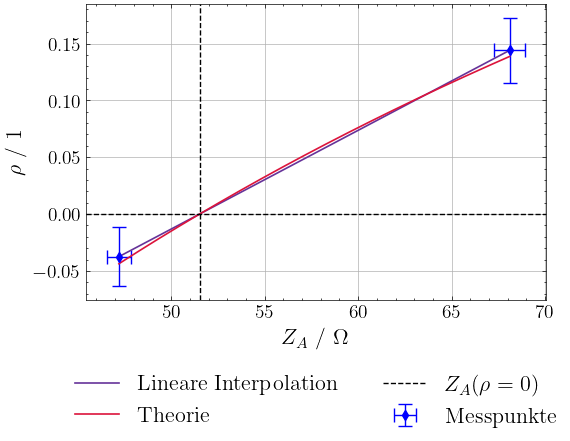
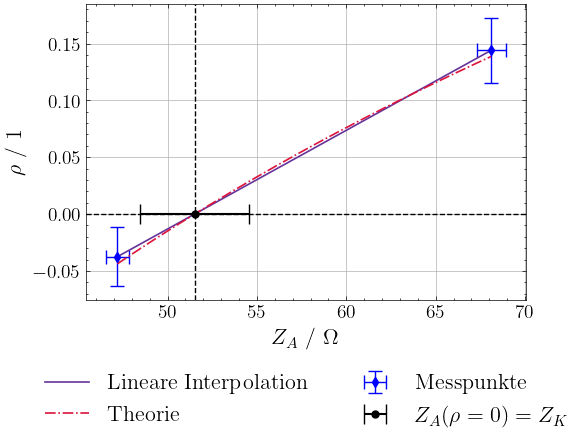
finish Auswertung Signalleitung

diff --git a/Promt.md b/Promt.md
@@ -76,110 +76,104 @@ Als nächstes analysiere den vorgegebenen code und die Inhaltlichen Anforderunge
 
 # Promt für LLM
 
-Rolle & Ziel: Du bist ein wissenschaftlicher Assistent, spezialisiert auf das Verfassen von Physik-Laborberichten auf Hochschulniveau. Deine Aufgabe ist es mir beim Schreiben meines aktuellen Laborberichts Interferometer zu helfen. Du sollst dazu das Kapitel Auswertung schreiben. Im diesem letzten Schritt soll die Auswertung für den vierten Versuch verfasst werden.
+Rolle & Ziel: Du bist ein wissenschaftlicher Assistent, spezialisiert auf das Verfassen von Physik-Laborberichten auf Hochschulniveau. Deine Aufgabe ist es mir beim Schreiben meines aktuellen Laborberichts Signalleitung zu helfen. Du sollst dazu das Kapitel Vesuchsdurchführung und Auswertung für den fünften Versuch "Einfluss verschiedener Signalformen" verfassen.
+
 Input: 
 1. Bestehender Laborbericht mit Bildern.
-2. Python code zur Auswertung der Aufgabe. 
+2. Python code zur Auswertung der Aufgabe:
+
+```python 
+files = [
+    "data50.csv",  # 1.0 MHz
+    "data55.csv",  # 2.0 MHz
+    "data56.csv",  # ~2.3 MHz (dip)
+    "data57.csv",  # 2.4 MHz
+    "data60.csv",  # 3.0 MHz
+    "data61.csv",  # 4.0 MHz
+]
+
+folder_path = "data/Signalleitung/V05_sine"
+
+fig, axes = plt.subplots(
+    2, 3,
+    figsize=(10, 6),
+    sharex=True,
+    sharey=True
+)
+
+legend_handles = None
+legend_labels = None
+axes = axes.flatten()
+
+for i,ax in enumerate(axes):
+    df = pd.read_csv(
+        os.path.join(folder_path, files[i]),
+        skiprows=3,
+        header=None
+    )
+
+    time = df.iloc[:, 0].to_numpy()
+    voltage1 = df.iloc[:, 1].to_numpy()
+    voltage2 = df.iloc[:, 2].to_numpy()
+
+    # ---- frequency determination via peaks ----
+    voltage2_ac = voltage2 - np.mean(voltage2)
+    peaks, _ = find_peaks(voltage2_ac, prominence=0.2*np.max(np.abs(voltage2_ac)))
+
+    T = np.mean(np.diff(time[peaks]))
+    frequency = 1 / T
+
+    l1, = ax.plot(time * 1e6, voltage1, color="blue", lw=1)
+    l2, = ax.plot(time * 1e6, voltage2, color="crimson", lw=1)
+
+    if legend_handles is None:
+        legend_handles = [l1, l2]
+        legend_labels = [r"Eingang $U_1$", r"Ausgang $U_2$"]
+
+    ax.set_title(fr"$f = {frequency/1e6:.2f}\,\mathrm{{MHz}}$", fontsize=16)
+    ax.grid(True)
+    ax.set_xlim(-1,1)
+    if i in [0,3]:
+        ax.set_ylabel(r"Voltage $U$ / V", fontsize=16)
+    if i in [3,4,5]:
+        ax.set_xlabel(r"Time $t$ / $\mu$s", fontsize=16)
+
+fig.legend(
+    legend_handles,
+    legend_labels,
+    loc='lower center',
+    ncol=len(legend_labels),
+    fontsize=16
+)
+
+plt.tight_layout(rect=[0, 0.08, 1, 1])
+plt.show()
+```
 
 Anforderungen an den Output:
-* Schreibe mir das vierte Kapitel für den aktuellen Bericht. Gib dem Kapitel eine passende Überschrift.
-* Analysiere den bestehenden Bericht und baue auf der bestehenden Analyse auf. Übernimm den Schreibstil, die Struktur, den Detaillierungsgrad und die Länge der analysierten Kapitel.
-* Verwende dieselbe wissenschaftliche Ausdrucksweise, denselben Aufbau (Absätze, Unterüberschriften, Formatierung) und ein ähnliches Sprachniveau. Achte darauf keine Wortwiederholungen zu verwenden und dass der Text zum rest des Berichtes passt.
+* Schreibe mir das fünfte Kapitel "Einfluss verschiedener Signalformen" für den aktuellen Bericht.
+* Analysiere den bestehenden Bericht und übernimm den Schreibstil, die Struktur, den Detaillierungsgrad und die Länge der analysierten Kapitel.
+* Wichtig! Verwende dieselbe wissenschaftliche Ausdrucksweise, denselben Aufbau (Absätze, Unterüberschriften, Formatierung) und ein ähnliches Sprachniveau. Achte weiters darauf keine Wortwiederholungen und koplexe Ausdrücke zu verwenden.
 * Die Formatierung der Tabellen und Bilder sind ebenfalls aus den Berichten zu entnehmen. Wichtig ist immer eine passende caption der Figuren und Tabellen zu verwenden. Subindizes sind als text zu formatieren $X_\text{y}$ und alle Messwerte sind mit einer Unsicherheit anzugeben.
 * Falls inhaltliche Unsicherheiten bestehen, formuliere plausible und physikalisch korrekte Annahmen.
-* Im bestehenden Bericht sind bereits alle bilder eingefügt. Die captions dieser Figuren sind mithilfe der inhaltlichen Angaben zu überarbeiten und auszubessern.
+* Im bestehenden Bericht sind bereits alle Bilder eingefügt. Die captions dieser Figuren sind mithilfe der inhaltlichen Angaben zu überarbeiten.
 
-Inhalt: Für den vierten Versuch soll die Größe der Lichtquelle bestimmt werden, bei der für einen bestimmten Abstand d vom Doppeltspalt das Licht noch räumlich kohärent ist. Dazu wird für die drei verfügbaren Spaltabstände des Doppelspalts jeweils das ertste Kontrastminimum durch verstelle nder Spaltbreite $w$ ermittelt. Die 3 zugehörigen Interferenzmuster sind in der ersten Abbildung angeführt. Der markierte Bereich dient hier nur zu visualisierungs Zwecken.
-Als nächstes werden die Messpunkte und der Theoretisch erwartete Verlauf in einem Diagramm w(d) dargestellt. Die Unsicherheit für w ergibt sich aus dem in Kapitel 1 angeführen Argumenten der Nullpunktverschiebung.
+Inhalt: 
+Durchführung: Für den fünften Versuchsteil soll der Einfluss verschiedener Signalformen auf das Verhalten in einem Koaxial Kabel untersucht werden. Dazu wird die Schaltung aus Versuch 1a aufgebaut und anstatt mit Rechteckpulsen einmal mit einer Dreieckspannung von 100kHz und mit Sinussignalen verschiedener Frequnzen betrieben.
+
+Auswertung: IN der ersten Abbildung ist der Verlauf der Dreieck Spannung am Eingang vom Kabel in gelb und am Ausgang in grün dargestellt. In der zweiten Abbildung jeweils U_1 und U_2 von 6 verschiedenen Sinus signalen mit den Frequnzen freq = [0.5, 1.0, 1.5, 2.0, 2.3, 2.4, 3.0, 4.0, 5.0] #MHz. Es ist jeweils der selbe ZEitabschnitt geplottet.
+
+Diskussion:
+BEi dem Dreiecksignal ist U_1 und U_2 nahezu ein identisches signal. BEi den verschiedenen Sinus Signalen erkennt man, dass bei 2.3 mHz ca das Eingangssignal null wird. Das liegt daran, dass diese Frequnz der ersten Harmonischen stehenden Welle entspricht. Die rücklaufende Welle überlagert sich destruktiv. Weitere Frequnzen bei welchen das selbe Verhaten festgestellt wurde sind 7.2 und 12.1 MHz was die Annahme der stehenden Welle bestätigt. Die 2 Frequnzen sind nicht in der Abbildung. 
 
 
 Outputformat:
 * Gib den fertigen Kapiteltext als zusammenhängenden, klar strukturierten Berichtsteil als Latex code aus.
 * Keine Meta-Kommentare oder Erklärungen, nur der wissenschaftliche Text.
-* Wichtiger Hinweiß: Die Diskussion soll vorerst nicht geschrieben werden. Fokusiere dich nur auf die Auswertung
+* Wichtiger Hinweiß: Im bestehenden Bericht ist die Verscuhsdurchführung schon geschrieben. Überarbeite diese und schreibe mir das vollständige Kapitel 4.
 
-Beginne mir einer Analyse des bestehenden Berichts und erweitere die bestehende Analyse! Wichtige Punkte die du übernehmen kannst sind:
-* Wortwahl, Satzlänge und Übergänge zu übernehmen,
+Beginne mir einer Analyse des bestehenden Berichts und erweitere die bestehende Analyse. Wichtige Punkte die du übernehmen sollst sind:
+* Wortwahl, Satzlänge und Übergänge,
 * typische Formulierungen zu imitieren,
 * Tabellen- oder Formelstrukturen stilistisch nachzubilden.
 Als nächstes analysiere den vorgegebenen code und die Inhaltlichen Anforderungen und schreibe danach das Kapitel gemäß der neuen Aufgabe.
-
-```python Skript
-import numpy as np
-import os
-import cv2
-import matplotlib.pyplot as plt
-from lib import slit_measure_to_mm
-from matplotlib.patches import Rectangle
-import scienceplots
-
-plt.style.use('science')
-plt.rcParams.update({'font.size': 14})
-
-folder = "03_Interferometer/data/Versuch04/"
-ROI = (50, 425, 950, 130)
-slit_width = [(4,35), (3,5), (1,4)]
-slit_width = list(map(slit_measure_to_mm, slit_width))
-delta_width = 0.1 #mm
-
-d_dist = np.array([0.13, 0.23, 0.43]) #mm
-lam = 0.000633 #mm
-f1 = 300 #mm
-
-image_files = sorted([
-    f for f in os.listdir(folder)
-    if f.lower().endswith((".jpg", ".jpeg", ".png"))
-])
-
-fig, axes = plt.subplots(1, 3, figsize=(8, 2.5))
-
-for i, filename in enumerate(image_files):
-    ax_img = axes[i]
-    img = cv2.imread(os.path.join(folder, filename), cv2.IMREAD_GRAYSCALE)
-
-    # ROI & Profil
-    x, y, w, h = ROI
-    roi = img[y:y+h, x:x+w] #type: ignore
-
-    ax_img.imshow(img, cmap="gray", aspect="auto")
-    ax_img.add_patch(Rectangle((x, y), w, h,
-                            edgecolor="red", facecolor="none", 
-                            linewidth=0.9, linestyle='--'))
-    ax_img.set_title(rf"Doppelspalt $d = {d_dist[i]:.2f}\,\mathrm{{mm}}$", fontsize=16)
-    ax_img.axis("off")
-
-plt.tight_layout()
-plt.show()
-
-w_theo = lambda d : f1*lam/(2*d)
-d_plot = np.linspace(0.1, 0.8, 1000)
-
-fig,ax = plt.subplots(1,1,figsize=(6,4))
-ax.errorbar(
-    d_dist,
-    slit_width,
-    yerr=delta_width,
-    marker='d',
-    linestyle='none',
-    capsize=5,
-    color='crimson',
-    label="Messdaten"
-)
-
-ax.plot(
-    d_plot,
-    w_theo(d_plot),
-    'b-',
-    label=r"Theorie: $w(d) = f_1\lambda / d$"
-)
-
-ax.set_xlabel(r"Spaltabstand $d$ / mm", fontsize=16)
-ax.set_ylabel(r"Breite $w$ / mm", fontsize=16)
-
-ax.grid(True)
-ax.legend(fontsize=16, frameon=True)
-
-plt.tight_layout()
-plt.show()
-```
-
